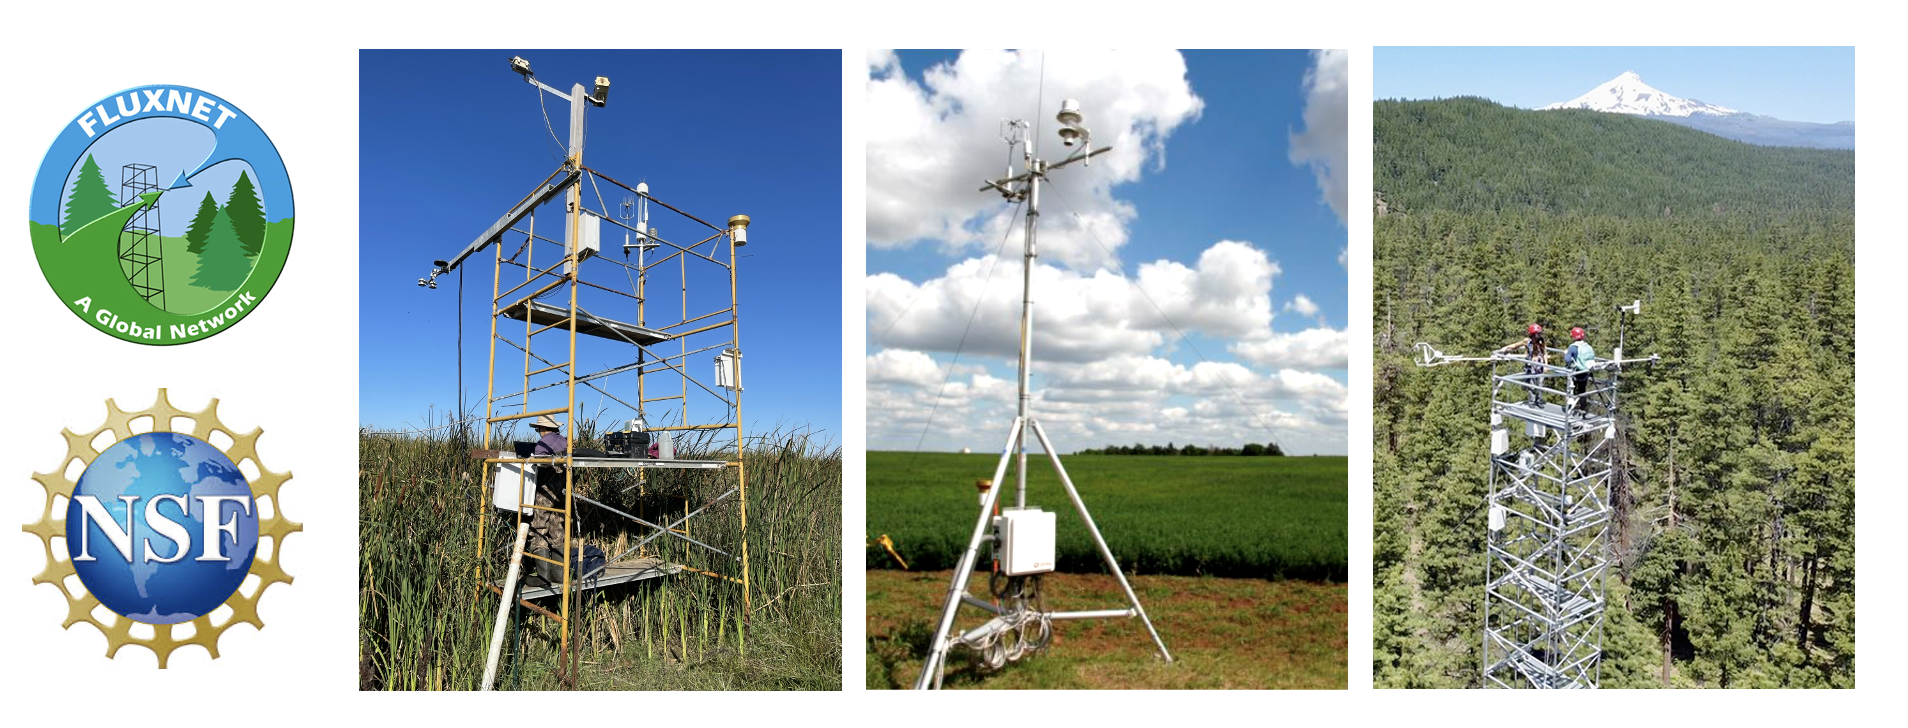
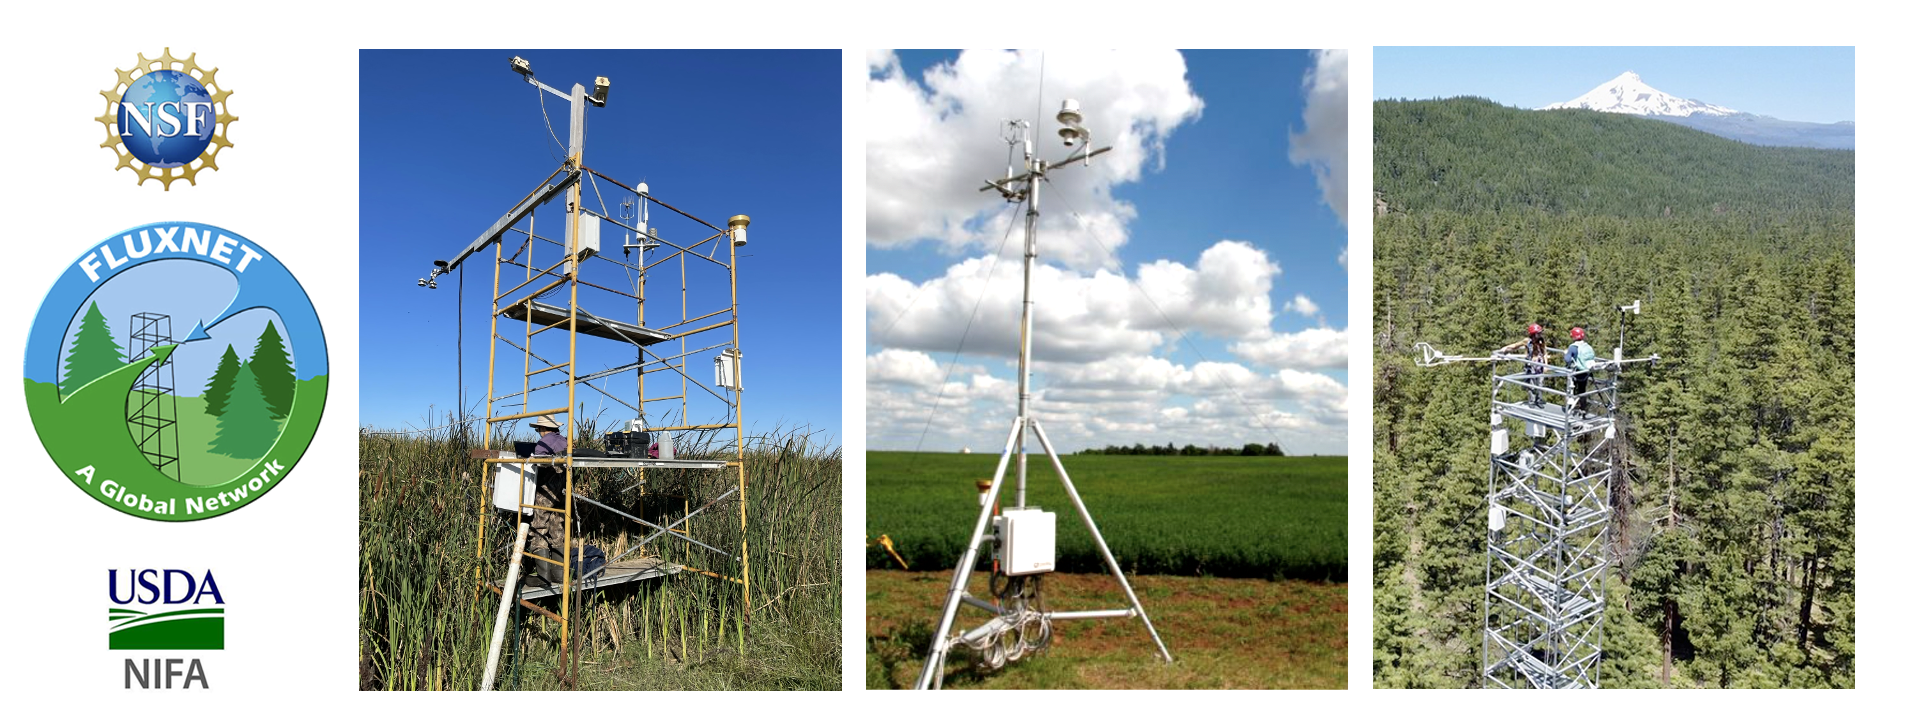
update images

Changed region(s): [[0.0, 0.0604, 0.1855, 0.967]]

diff --git a/_pages/about.md b/_pages/about.md
@@ -40,7 +40,7 @@ Listen to and spread the word about Meet the Fluxers and please reach out on our
   <div class="column">
     <figure>
       <img src="/images/jess.png" alt="Jessica Richardson">
-      <figcaption><b><a href="https://peatmail.substack.com">Jessica Richardson</a></b> is an early career flux scientist at Louisiana State University and primary host, coordinator, and editor for <a href="https://meetthefluxers.github.io/">Meet the Fluxers</a>. She also writes a wetland-focused newsletter called <a href="https://peatmail.substack.com">Peatmail</a> and the environmental blog <a href="https://peatmail.substack.com/p/definearth-powers-down-after-nine">definearth</a>.</figcaption>
+      <figcaption><b><a href="https://peatmail.substack.com">Jessica Richardson</a></b> is an early career scientist at Louisiana State University and primary host, coordinator, and editor for <a href="https://meetthefluxers.github.io/">Meet the Fluxers</a>. She also writes a wetland-focused newsletter called <a href="https://peatmail.substack.com">Peatmail</a> and the environmental blog <a href="https://peatmail.substack.com/p/definearth-powers-down-after-nine">definearth</a>.</figcaption>
     </figure>
   </div>
 
@@ -62,14 +62,14 @@ https://fluxnetart.github.io"><i>flux</i><b>Art</b></a>.</figcaption>
   <div class="column">
     <figure>
       <img src="/images/emma.png" alt="Emma Reich">
-      <figcaption><b><a href="https://egreich.github.io/aboutme">Emma Reich</a></b> is a Ph.D. candidate at Northern Arizona University and chairs the FLUXNET outreach working group.</figcaption>
+      <figcaption><b><a href="https://egreich.github.io/aboutme">Emma Reich</a></b> is an early career scientist at Northern Arizona University and member of the FLUXNET outreach working group.</figcaption>
     </figure>
   </div>
 
   <div class="column">
     <figure>
       <img src="/images/robert.png" alt="Robert Shortt">
-      <figcaption><b><a href="https://www.linkedin.com/in/robert-shortt-9a46711a0">Robert Shortt</a></b> is a Ph.D. candidate at the University of California, Berkeley and member of the FLUXNET outreach working group.</figcaption>
+      <figcaption><b><a href="https://www.linkedin.com/in/robert-shortt-9a46711a0">Robert Shortt</a></b> is an early career scientist at the University of California, Berkeley and member of the FLUXNET outreach working group.</figcaption>
     </figure>
   </div>
 
